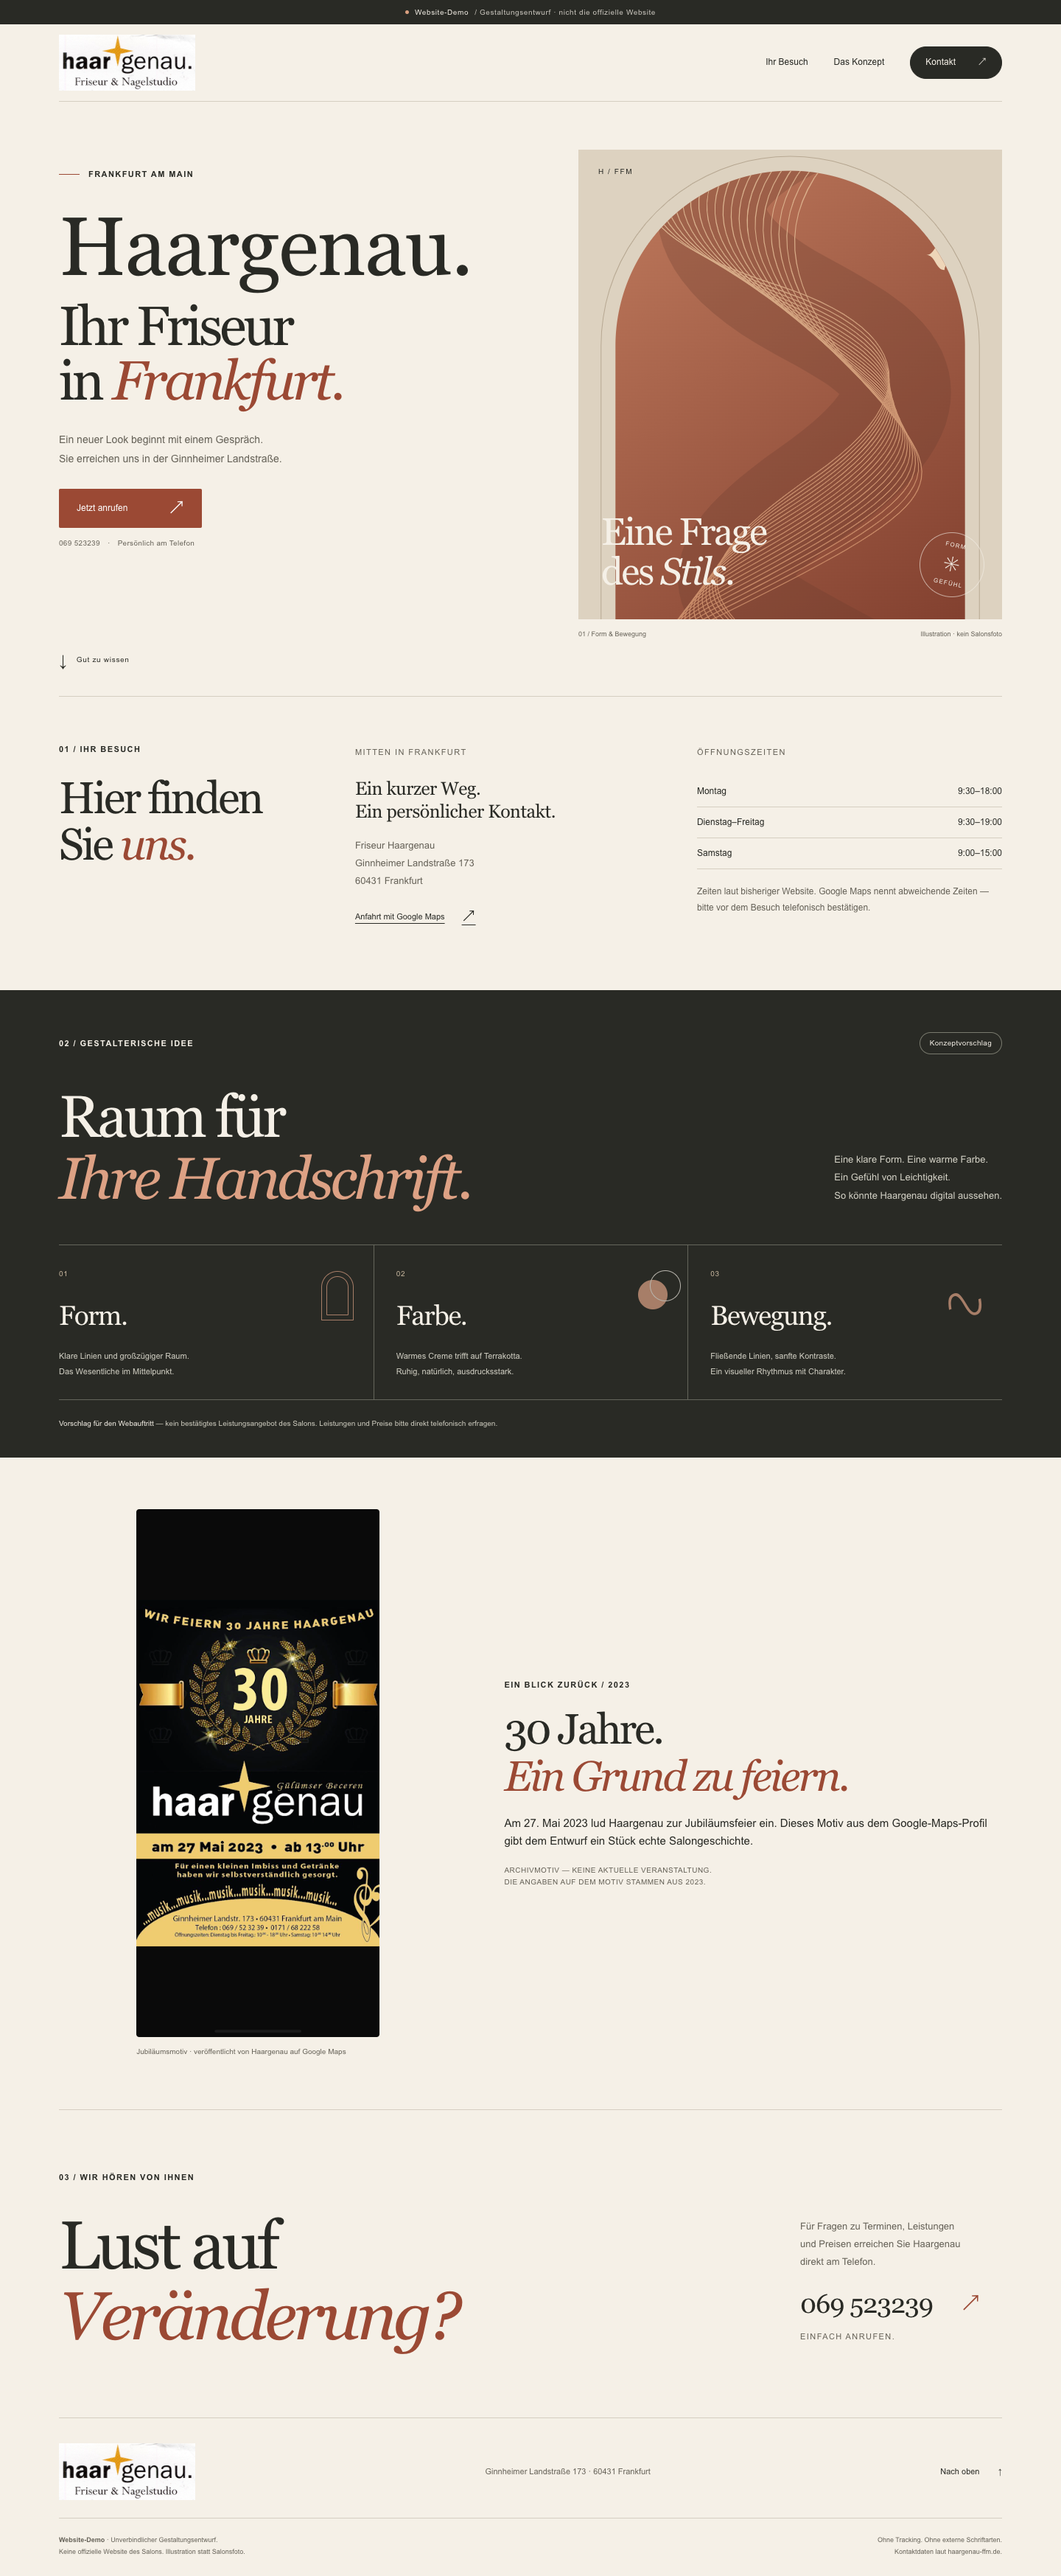
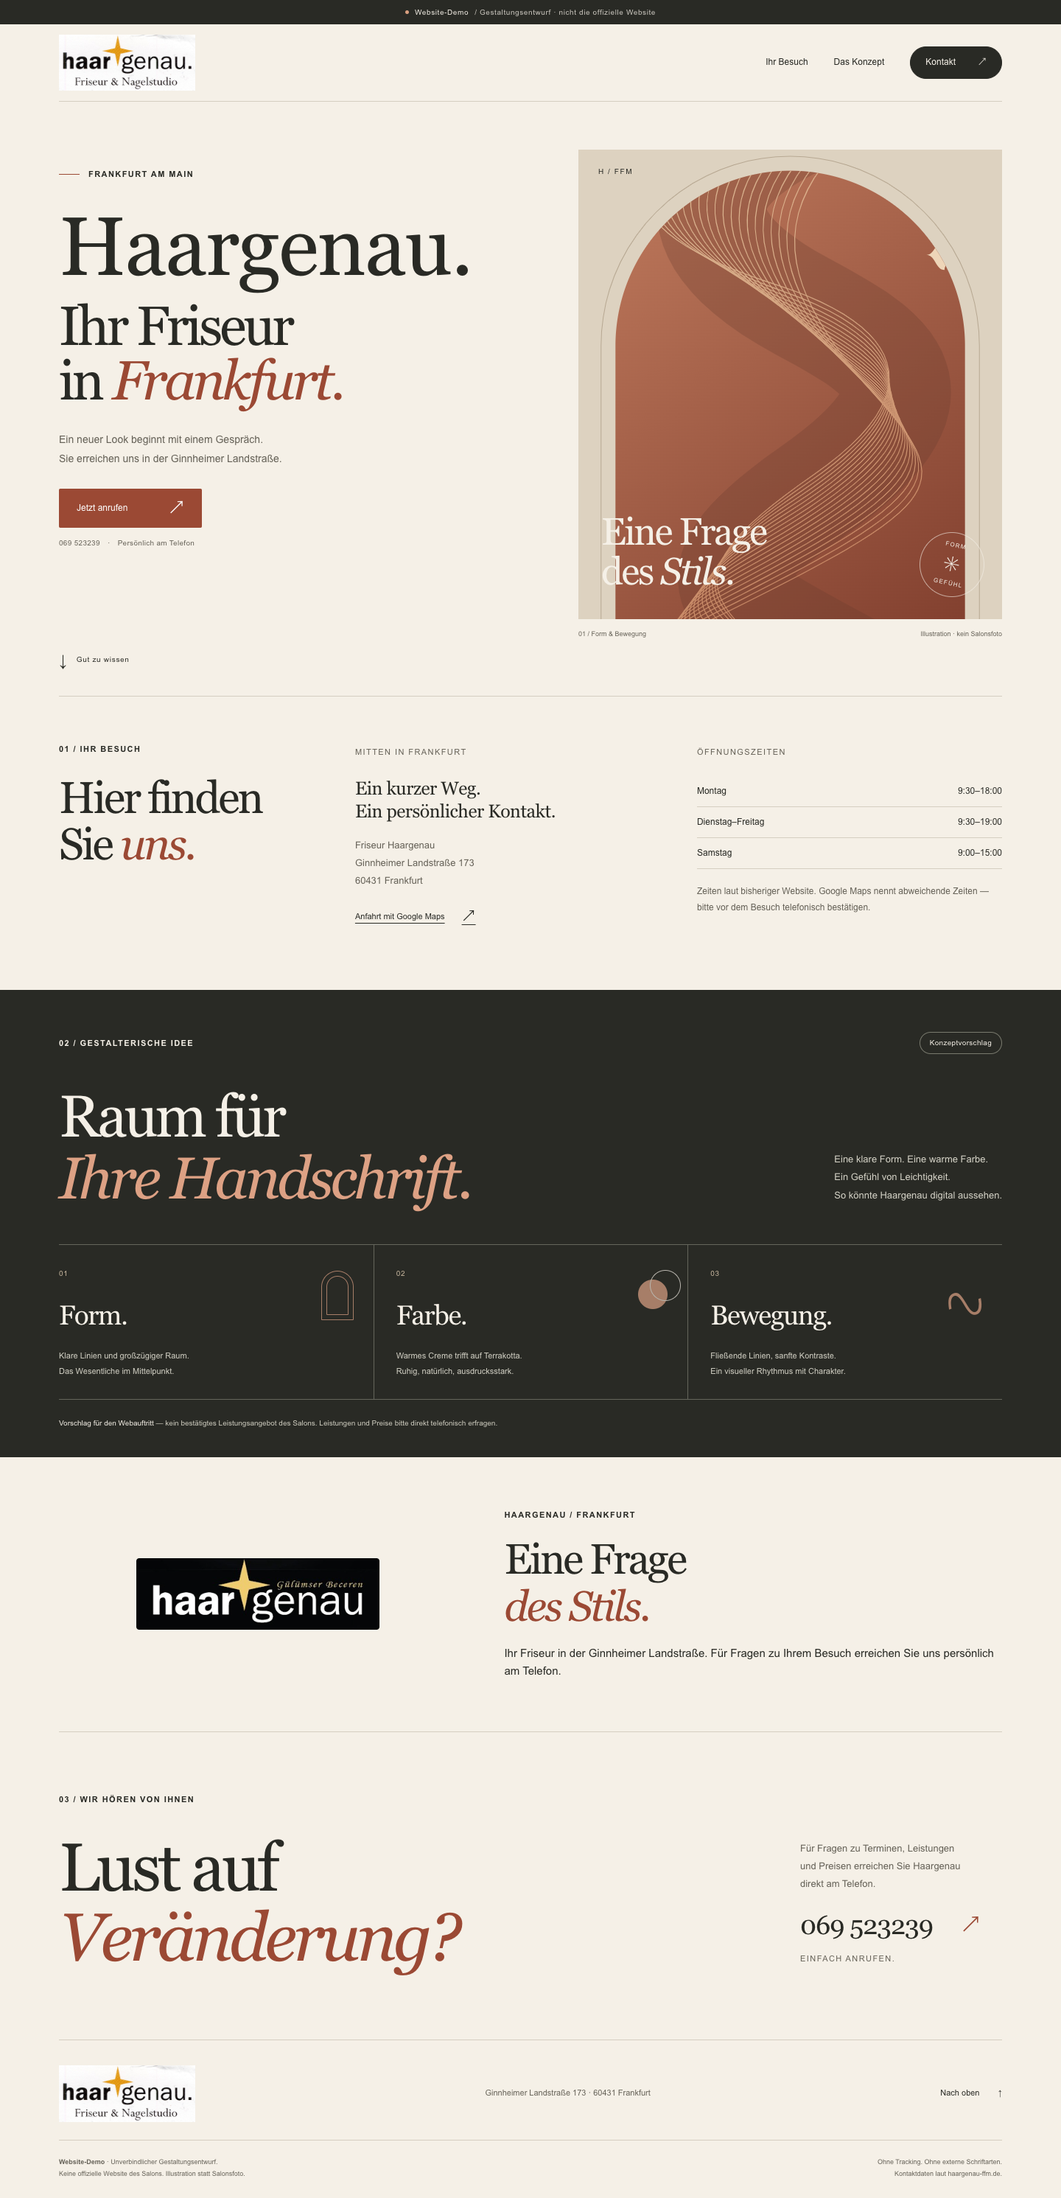
fix: remove dated anniversary content from demo

diff --git a/index.html b/index.html
@@ -79,8 +79,8 @@
     </section>
 
     <section class="salon-memory wrap" aria-labelledby="memory-title">
-      <figure><img src="assets/haargenau-jubilaeum.jpg" width="408" height="886" alt="Historisches Jubiläumsmotiv von Haargenau: 30 Jahre, Feier am 27. Mai 2023."><figcaption>Jubiläumsmotiv · veröffentlicht von Haargenau auf Google Maps</figcaption></figure>
-      <div><p class="eyebrow">Ein Blick zurück / 2023</p><h2 id="memory-title">30 Jahre.<br><em>Ein Grund zu feiern.</em></h2><p>Am 27. Mai 2023 lud Haargenau zur Jubiläumsfeier ein. Dieses Motiv aus dem Google-Maps-Profil gibt dem Entwurf ein Stück echte Salongeschichte.</p><p class="label">Archivmotiv — keine aktuelle Veranstaltung.<br>Die Angaben auf dem Motiv stammen aus 2023.</p></div>
+      <figure><img src="assets/haargenau-marke.jpg" width="408" height="120" alt="Haargenau: weißer Schriftzug mit goldenem Stern auf schwarzem Hintergrund."></figure>
+      <div><p class="eyebrow">Haargenau / Frankfurt</p><h2 id="memory-title">Eine Frage<br><em>des Stils.</em></h2><p>Ihr Friseur in der Ginnheimer Landstraße. Für Fragen zu Ihrem Besuch erreichen Sie uns persönlich am Telefon.</p></div>
     </section>
 
     <section class="contact wrap" id="kontakt" aria-labelledby="contact-title">
